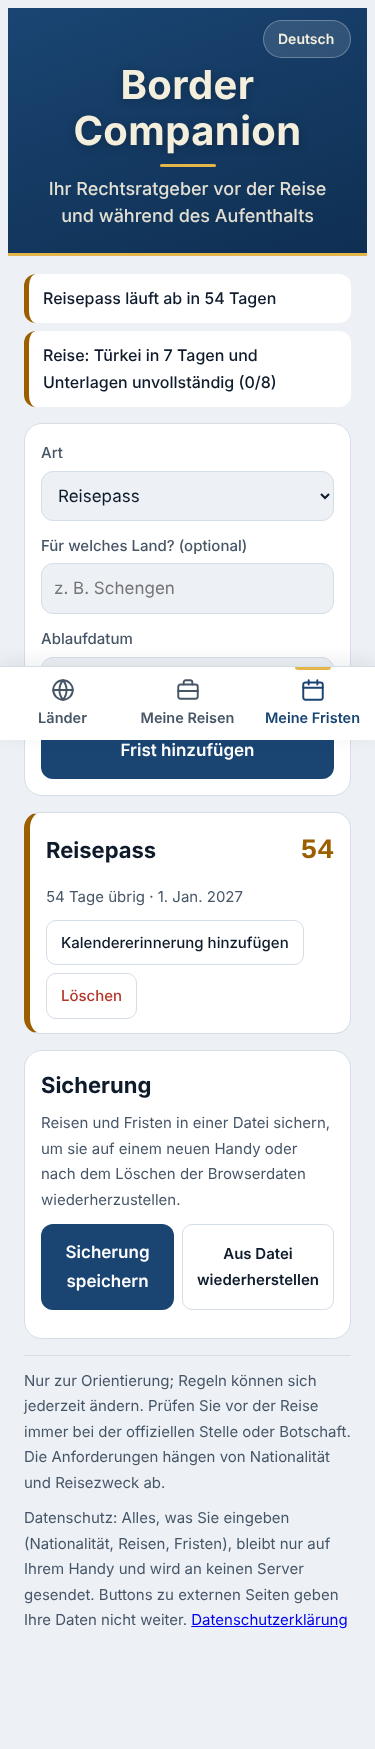
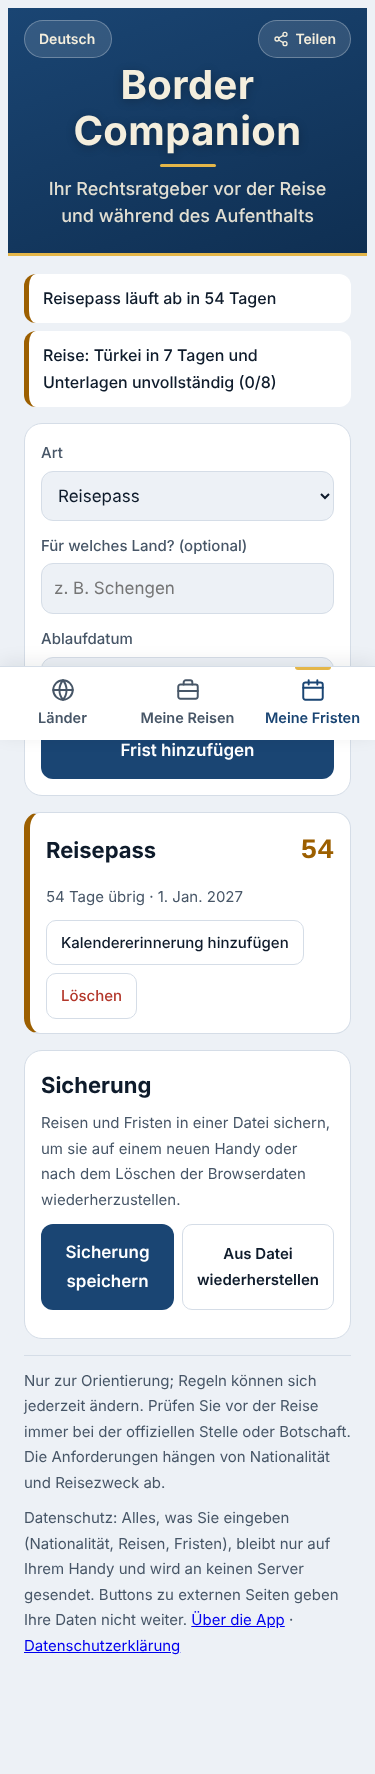
Add country search, share button and About page
Claude-Session: https://claude.ai/code/session_01ENsRVFaxvJuuLhfDjghU7F

diff --git a/index.html b/index.html
@@ -37,7 +37,18 @@ svg.i{width:22px;height:22px;flex:none;fill:none;stroke:currentColor;stroke-widt
 /* header */
 .top{background:linear-gradient(160deg,var(--navy2),var(--navy));color:var(--on-navy);border-bottom:3px solid var(--gold)}
 .top .wrap{padding-block:12px 24px;display:flex;flex-direction:column;align-items:center;text-align:center;gap:4px}
-.top .lang{align-self:flex-end;order:-1;font-size:14px;padding:6px 14px}
+.top .topbar{order:-1;align-self:stretch;display:flex;justify-content:space-between;align-items:center;gap:8px}
+.top .lang{font-size:14px;padding:6px 14px}
+.sharebtn{display:inline-flex;align-items:center;gap:6px;background:rgb(255 255 255 / .12);color:var(--on-navy);border:1px solid rgb(255 255 255 / .28);border-radius:999px;padding:6px 14px;font-size:14px;font-weight:600}
+.sharebtn svg{width:16px;height:16px;fill:none;stroke:currentColor;stroke-width:2;stroke-linecap:round}
+.csearch{position:relative}
+.csearch input{font:inherit;width:100%;min-height:50px;border-radius:14px;border:1px solid var(--line);background:var(--surface);color:var(--ink);padding:10px 14px 10px 14px;padding-inline-start:44px}
+.csearch svg{position:absolute;inset-inline-start:14px;top:50%;transform:translateY(-50%);width:20px;height:20px;fill:none;stroke:var(--muted);stroke-width:2;stroke-linecap:round;pointer-events:none}
+.cres{display:flex;flex-wrap:wrap;gap:8px}
+.cres:empty{display:none}
+.cres button{border:1px solid var(--line);background:var(--surface);color:var(--ink);border-radius:999px;padding:7px 14px;font-size:16px;font-weight:600;display:inline-flex;gap:6px;align-items:center}
+.cres .none{color:var(--muted);font-size:15px}
+.toast{position:fixed;inset-inline:16px;bottom:calc(96px + env(safe-area-inset-bottom,0px));z-index:30;background:var(--ink);color:var(--bg);border-radius:12px;padding:10px 14px;text-align:center;font-weight:600}
 .logo{width:52px;height:52px;border-radius:14px;flex:none;box-shadow:0 2px 10px rgb(0 0 0 / .25)}
 .brand{min-width:0;display:flex;flex-direction:column;align-items:center;gap:8px}
 .brand h1{font-family:var(--display);font-size:40px;margin:0;line-height:1.15;font-weight:700;letter-spacing:.01em;text-shadow:0 2px 10px rgb(0 0 0 / .25)}
@@ -191,7 +202,7 @@ nav.tabs button[aria-selected="true"]::before{content:"";position:absolute;top:0
 
 <header class="top"><div class="wrap pad">
   <div class="brand"><h1 id="appName">رفيق الحدود</h1><p id="tagline"></p></div>
-  <select class="lang" id="langSel" aria-label="Language"><option value="ar">العربية</option><option value="en">English</option><option value="fr">Français</option><option value="de">Deutsch</option></select>
+  <div class="topbar"><select class="lang" id="langSel" aria-label="Language"><option value="ar">العربية</option><option value="en">English</option><option value="fr">Français</option><option value="de">Deutsch</option></select><button type="button" class="sharebtn" id="shareBtn"><svg viewBox="0 0 24 24"><circle cx="18" cy="5" r="3"/><circle cx="6" cy="12" r="3"/><circle cx="18" cy="19" r="3"/><path d="M8.6 13.5l6.8 4M15.4 6.5l-6.8 4"/></svg><span id="shareL"></span></button></div>
 </div></header>
 
 <main class="wrap pad">
@@ -205,6 +216,8 @@ nav.tabs button[aria-selected="true"]::before{content:"";position:absolute;top:0
       <div class="selwrap"><svg class="i" viewBox="0 0 24 24"><rect x="3" y="7" width="18" height="13" rx="2"/><path d="M8 7V5a2 2 0 0 1 2-2h4a2 2 0 0 1 2 2v2M3 13h18"/></svg><select id="purpose" class="big"></select></div>
     </div>
     <div class="picker"><label for="countrySel" id="countryL"></label>
+      <div class="csearch"><svg viewBox="0 0 24 24"><circle cx="11" cy="11" r="7"/><path d="M20 20l-4-4"/></svg><input type="search" id="csearch" autocomplete="off" enterkeyhint="search"></div>
+      <div class="cres" id="cres"></div>
       <div class="selwrap"><svg class="i" viewBox="0 0 24 24"><circle cx="12" cy="12" r="9"/><path d="M3 12h18M12 3a14 14 0 0 1 0 18M12 3a14 14 0 0 0 0 18"/></svg><select id="countrySel" class="big"></select></div>
     </div>
     <details class="holdsbox"><summary id="holdL"></summary>
@@ -541,7 +554,8 @@ function render(){
  const t=UI[lang], T=T2[lang];
  document.documentElement.lang=lang; document.documentElement.dir=lang==="ar"?"rtl":"ltr";
  $("langSel").value=lang; $("appName").textContent=t.name; $("tagline").textContent=t.tag;
- $("disclaimer").textContent=t.disc; $("privacy").innerHTML=esc(L(PRIV))+` <a href="privacy.html">${esc(L(PRIVL))}</a>`;
+ $("disclaimer").textContent=t.disc; $("privacy").innerHTML=esc(L(PRIV))+` <a href="about.html">${esc(L(ABOUTL))}</a> · <a href="privacy.html">${esc(L(PRIVL))}</a>`;
+ $("shareL").textContent=L(SHAREL); $("csearch").placeholder=t.search;
  {const B=BK[lang]; $("bk_t").textContent=B.t; $("bk_i").textContent=B.i; $("bk_ex").textContent=B.ex; $("bk_im").textContent=B.im; $("bk_msg").textContent="";}
  $("natL").textContent=t.nat; $("purL").textContent=t.purpose; $("holdL").textContent=t.holds;
  $("h_visaL").textContent=t.hVisa; $("h_wresL").textContent=t.hWres; $("h_gccL").textContent=t.hGcc;
@@ -561,6 +575,9 @@ const EDIT=q("تعديل","Edit","Modifier","Ändern");
 const profChanged=()=>{saveProf();stamps();guide();refresh()};
 $("langSel").onchange=e=>{lang=e.target.value;store("ub_lang",lang);render()};
 $("countrySel").onchange=e=>{sel=e.target.value;store("ub_sel",sel);guide()};
+$("csearch").oninput=searchView;
+$("cres").onclick=e=>{const b=e.target.closest("[data-cid]");if(!b)return;sel=b.dataset.cid;store("ub_sel",sel);$("csearch").value="";$("cres").innerHTML="";stamps();guide();try{document.querySelector(".hero").scrollIntoView({behavior:"smooth",block:"start"})}catch(_){}};
+$("shareBtn").onclick=shareApp;
 $("nat").onchange=e=>{nat=e.target.value;profChanged()};
 $("purpose").onchange=e=>{pur=e.target.value;profChanged()};
 [["h_visa","visa"],["h_wres","wres"],["h_gcc","gcc"]].forEach(([id,k])=>$(id).onchange=e=>{H[k]=e.target.checked;profChanged()});
@@ -579,6 +596,25 @@ const stayChg=()=>{STAY={c:$("st_c").value,s:$("st_s").value,x:$("st_x").value};
 ["st_c","st_s","st_x"].forEach(id=>$(id).onchange=stayChg);
 $("stayOut").onclick=e=>{if(e.target.id==="st_clear"){STAY={c:$("st_c").value,s:"",x:""};$("st_s").value="";$("st_x").value="";store("ub_stay",STAY);stayView();alertsView()}};
 /* ---------- Privacy, backup, offline ---------- */
+const ABOUTL=q("عن التطبيق","About","À propos","Über die App");
+const SHAREL=q("شارك","Share","Partager","Teilen");
+const SHARET=q("رفيق الحدود: دليلك القانوني للسفر والإقامة في 38 دولة بأربع لغات","Border Companion: your legal guide to travel and residence in 38 countries, in 4 languages","Border Companion : votre guide juridique du voyage et du séjour dans 38 pays, en 4 langues","Border Companion: Ihr Rechtsratgeber für Reise und Aufenthalt in 38 Ländern, in 4 Sprachen");
+const COPIED=q("تم نسخ الرابط","Link copied","Lien copié","Link kopiert");
+const SITE="https://reshy20-cyber.github.io/border-companion/";
+function toast(m){const t=document.createElement("div");t.className="toast";t.textContent=m;document.body.appendChild(t);setTimeout(()=>t.remove(),2200)}
+async function shareApp(){
+ const text=L(SHARET);
+ try{ if(navigator.share){await navigator.share({title:"رفيق الحدود · Border Companion",text,url:SITE});return} }catch(e){ if(e&&e.name==="AbortError") return }
+ try{await navigator.clipboard.writeText(text+"\n"+SITE);toast(L(COPIED));return}catch(e){}
+ window.open("https://wa.me/?text="+encodeURIComponent(text+"\n"+SITE),"_blank","noopener");
+}
+const norm=x=>String(x).toLowerCase().replace(/[أإآ]/g,"ا").normalize("NFD").replace(/[\u0300-\u036f\u064b-\u065f\u0670]/g,"").replace(/ة/g,"ه").replace(/ى/g,"ي").trim();
+function searchView(){
+ const v=norm($("csearch").value);
+ if(!v){$("cres").innerHTML="";return}
+ const hits=C.filter(c=>LANGS.some(l=>norm(c.n[l]).includes(v))||c.code.toLowerCase()===v).slice(0,8);
+ $("cres").innerHTML=hits.length?hits.map(c=>`<button type="button" data-cid="${c.id}"><span>${flag(c.code)}</span>${esc(L(c.n))}</button>`).join(""):`<span class="none">${esc(UI[lang].none)}</span>`;
+}
 const PRIVL=q("سياسة الخصوصية","Privacy policy","Politique de confidentialité","Datenschutzerklärung");
 const PRIV=q("خصوصيتك: كل ما تُدخله (جنسيتك ورحلاتك ومواعيدك) يُحفظ في جوالك فقط، ولا يُرسل إلى أي خادم. الأزرار التي تفتح مواقع خارجية لا تنقل بياناتك.",
  "Your privacy: everything you enter (nationality, trips, dates) is stored only on your phone and never sent to any server. Buttons that open outside sites don't pass on your data.",

diff --git a/about.html b/about.html
@@ -1,0 +1,59 @@
+<!doctype html>
+<html lang="ar" dir="rtl"><head><meta charset="utf-8"><meta name="viewport" content="width=device-width,initial-scale=1">
+<title>عن التطبيق · About – رفيق الحدود Border Companion</title>
+<meta name="theme-color" content="#0F2F52">
+<style>
+:root{--bg:#EDF1F6;--surface:#fff;--ink:#0E1B2B;--muted:#475667;--navy:#0F2F52;--gold:#C9962E;--line:#D5DDE7}
+@media (prefers-color-scheme:dark){:root{--bg:#08121F;--surface:#111F33;--ink:#E9EFF6;--muted:#A8B7C8;--navy:#0B1F38;--gold:#E9BF5A;--line:#22344C}}
+*{box-sizing:border-box}
+body{margin:0;background:var(--bg);color:var(--ink);font:17px/1.75 system-ui,-apple-system,"Segoe UI",Tahoma,sans-serif}
+header{background:var(--navy);color:#F4EEDD;text-align:center;padding:28px 16px;border-bottom:3px solid var(--gold)}
+header h1{margin:0;font-size:28px}header p{margin:6px 0 0;opacity:.85}
+main{max-width:760px;margin:0 auto;padding:20px 16px 40px;display:flex;flex-direction:column;gap:18px}
+section{background:var(--surface);border:1px solid var(--line);border-radius:16px;padding:16px 20px}
+h2{margin:0 0 8px;font-size:21px}ul{margin:0;padding-inline-start:22px}
+.en{direction:ltr;text-align:left}
+a{color:inherit;font-weight:600}
+.meta{color:var(--muted);font-size:15px;text-align:center}
+.btn{display:inline-block;margin-top:8px;background:var(--navy);color:#F4EEDD;text-decoration:none;border-radius:12px;padding:10px 16px}
+.stats{display:flex;flex-wrap:wrap;gap:8px;justify-content:center;margin-top:10px}.stats span{border:1px solid rgb(255 255 255/.35);border-radius:999px;padding:3px 12px;font-size:15px}
+</style></head><body>
+<header><h1>رفيق الحدود</h1><p dir="ltr" style="font-weight:600;opacity:1">Border Companion</p><p>دليلك القانوني قبل السفر وأثناء الإقامة</p>
+<div class="stats"><span>38 دولة</span><span>40 جنسية</span><span>4 لغات</span></div></header>
+<main>
+<section>
+<h2>ما هو التطبيق؟</h2>
+<p>رفيق الحدود دليل مجاني يساعد المسافرين والمقيمين على معرفة القوانين قبل السفر: هل تحتاج فيزا لجنسيتك؟ ما شروط الإقامة؟ ما القوانين والعادات التي قد تسبب لك مشكلة؟ وماذا تفعل إذا فقدت جوازك أو اقتربت مدة إقامتك من الانتهاء؟</p>
+<ul>
+<li>حالة الدخول حسب جنسيتك، مع رابط الموقع الرسمي للتقديم.</li>
+<li>الإقامة، والعملة، والقيادة، والقوانين، وأشهر حيل الاحتيال، وأرقام الطوارئ.</li>
+<li>رحلاتي، وعدّاد أيام الإقامة (مع قاعدة شنغن)، وتنبيهات انتهاء الوثائق.</li>
+<li>يعمل بدون إنترنت، ولا يجمع أي بيانات عنك.</li>
+</ul>
+</section>
+<section>
+<h2>من أين تأتي المعلومات؟</h2>
+<p>من المواقع الحكومية والسفارات الرسمية ومصادر إخبارية موثوقة، وتُراجع كل شهر. المعلومات غير المؤكدة تظهر بوضوح بعبارة «تحقق قبل السفر».</p>
+<p><b>تنبيه:</b> المعلومات للإرشاد فقط وليست استشارة قانونية. القوانين تتغير، فتأكد دائماً من الجهة الرسمية أو السفارة قبل السفر.</p>
+</section>
+<section>
+<h2>وجدت معلومة خاطئة؟</h2>
+<p>ساعدنا في تصحيحها: اذكر الدولة وجنسيتك وما الخطأ، ومصدراً رسمياً إن وُجد.</p>
+<a class="btn" href="https://github.com/reshy20-cyber/border-companion/issues/new?title=%D8%AA%D8%B5%D8%AD%D9%8A%D8%AD%20%D9%85%D8%B9%D9%84%D9%88%D9%85%D8%A9%20%2F%20Correction">أرسل ملاحظة</a>
+</section>
+
+<section class="en">
+<h2>About</h2>
+<p>Border Companion is a free guide that helps travellers and residents understand the rules before they go: do you need a visa for your nationality, what are the residence rules, which laws and customs could get you into trouble, and what to do if you lose your passport or your stay is ending.</p>
+<ul>
+<li>Entry status by nationality, with a link to the official application site.</li>
+<li>Residence, money, driving, laws, common scams and emergency numbers.</li>
+<li>My trips, a stay counter (including the Schengen rule) and document expiry alerts.</li>
+<li>Works offline and collects no data about you.</li>
+</ul>
+<p>Information comes from official government and embassy sites and reputable news, and is reviewed monthly. Unconfirmed items are clearly marked "check before travel". This is guidance only, not legal advice.</p>
+<p><b>Found a mistake?</b> Tell us the country, your nationality, what is wrong and an official source if you have one.</p>
+<a class="btn" href="https://github.com/reshy20-cyber/border-companion/issues/new?title=Correction">Send feedback</a>
+</section>
+<p class="meta"><a href="privacy.html">سياسة الخصوصية · Privacy policy</a> · <a href="./">← العودة إلى التطبيق · Back to the app</a></p>
+</main></body></html>

diff --git a/sw.js b/sw.js
@@ -1,6 +1,6 @@
 /* Border Companion – offline support. Bump VERSION whenever index.html changes. */
-const VERSION = "bc-2026-11-08g";
-const SHELL = ["./", "./index.html", "./data.js", "./manifest.json", "./icons/icon-180.png", "./icons/icon-192.png", "./icons/icon-512.png"];
+const VERSION = "bc-2026-11-08h";
+const SHELL = ["./", "./index.html", "./data.js", "./about.html", "./privacy.html", "./manifest.json", "./icons/icon-180.png", "./icons/icon-192.png", "./icons/icon-512.png"];
 self.addEventListener("install", e => {
   e.waitUntil(caches.open(VERSION).then(c => Promise.all(SHELL.map(u => c.add(u).catch(() => null)))).then(() => self.skipWaiting()));
 });
